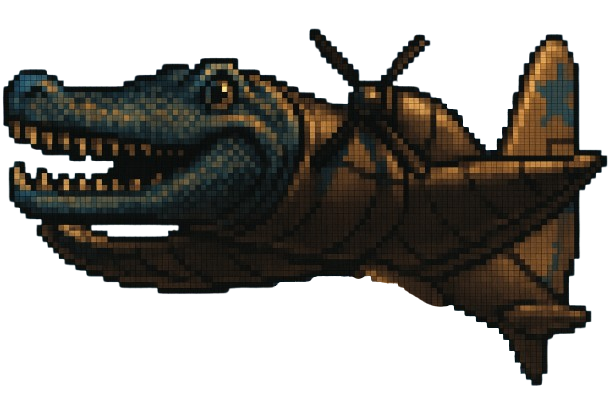
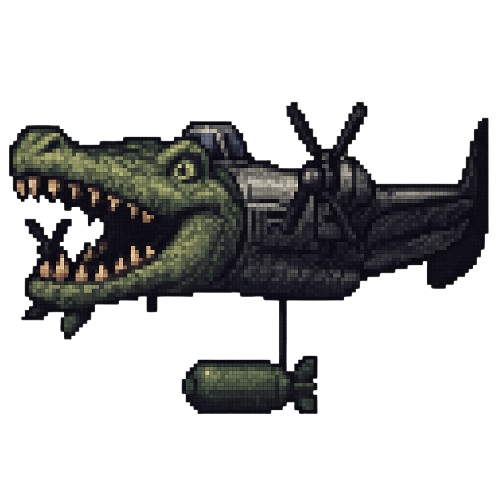
feat(): add new models

diff --git a/game.js b/game.js
@@ -24,7 +24,7 @@ function preload() {
   this.load.image("player", "player.png");
   this.load.image("atack1", "atack1.png");
   this.load.image("enemy", "enemy.png");
-  this.load.image("background", "background.png");
+  this.load.image("background", "background7.png");
 }
 
 function criarAtaqueAutomatico(scene) {
@@ -42,7 +42,7 @@ function criarAtaqueAutomatico(scene) {
       if (enemies.getLength() === 0) return;
 
       const attack = attacks.create(player.x, player.y, "atack1");
-      attack.setScale(0.1);
+      attack.setScale(0.2);
 
       // Encontra o inimigo mais próximo
       let nearestEnemy = null;
@@ -88,7 +88,7 @@ function create() {
 
   // Player
   player = this.physics.add.sprite(300, 300, "player");
-  player.setScale(0.2);
+  player.setScale(0.4);
   player.setCollideWorldBounds(true);
   player.body.setSize(450, 350); // largura, altura da hitbox
   player.body.setOffset(30, 90)  //obj inicial 
@@ -128,7 +128,9 @@ function create() {
       } while (Phaser.Math.Distance.Between(x, y, player.x, player.y) < safeDistance);
   
       const enemy = enemies.create(x, y, "enemy");
-      enemy.setScale(0.15);
+      enemy.setScale(0.5); //0.2
+      enemy.body.setSize(450, 200); // largura, altura da hitbox
+      enemy.body.setOffset(30, 140) 
       enemy.setCollideWorldBounds(true);
       enemy.health = 1;
     }

diff --git a/index.html b/index.html
@@ -6,8 +6,15 @@
     <title>Italian Brainrot</title>
     <script src="https://cdn.jsdelivr.net/npm/phaser@3/dist/phaser.js"></script>
     <style>
-      body { margin: 0; }
+      body {
+        margin: 0;
+        background-image: url('background7.png');
+        background-size: cover;      /* cobre toda a tela */
+        background-repeat: no-repeat; /* não repete */
+        background-position: center; /* centraliza a imagem */
+      }
       canvas { display: block; margin: 0 auto; }
+
     </style>
   </head>
   <body>
